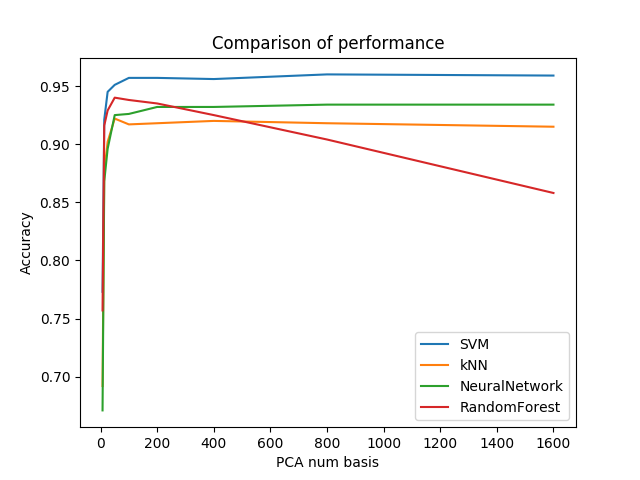
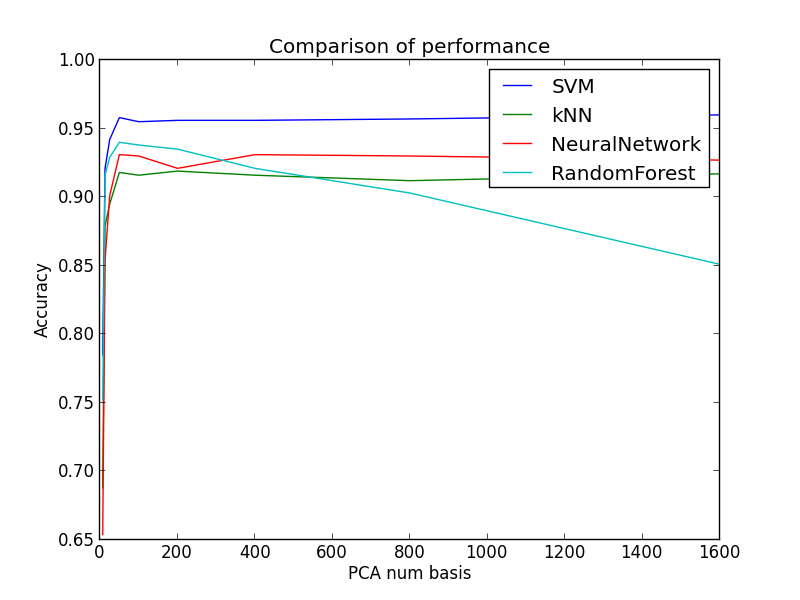
Modify README.md, re-experimented

Changed region(s): [[0.0312, 0.0625, 0.9375, 0.9688], [0.6562, 0.75, 0.6875, 0.8125]]

diff --git a/README.md b/README.md
@@ -97,7 +97,7 @@ python src/main_svm.py -i data/dataset.npz -kernel sigmoid
 
 - Parameter tuning for Neural Network
 
-    - hidden layers: 125 different hidden layers (2, 2, 2) to (32, 32, 32)125 different hidden layers (16, 16, 16) to (64, 64, 64)
+    - hidden layers: 27 different hidden layers (16, 16, 16) to (64, 64, 64)
     - activation function for the hidden layer: 
         - identity: f(x) = x
         - logistic: f(x) = 1 / (1 + exp(-x))
@@ -123,7 +123,7 @@ Best parameter sets found for each classifier
     - 0.916,n=3,weights=uniform,kNN
 - rf: 
     - 0.958,criterion=gini,n=128,minss=4,RandomForest
-- svm: linear kernel produced accuracy: 0.859 regardless of C. polynomial kernel performs slightly better with fine tuning.
+- svm: 
     - 0.961,kernel=poly,C=0.125,gamma=0.001953125,degree=1,SVM
 - nn: 
     - 0.960,hls=(32, 32, 64),alpha=0.00390625,activation=identity,solver=adam,NeuralNetwork
@@ -131,7 +131,7 @@ Best parameter sets found for each classifier
 I used 5-fold cross-validation for the experiment. Following boxplot is drawn from the above parameter sets.
 
 ```
-./src/draw_bosplot.sh
+./src/draw_boxplot.sh
 ```
 
 !["Accuracy comparison boxplot"](./plots/boxplot_original.png)
@@ -233,6 +233,10 @@ python ./src/plot_pca_sweep.py -i1 ./result/pca7.dat -i2 ./result/pca13.dat -i3 
 - Dimensionality reduction had different effect on each of the classifiers:
 - kNN uses nearest neighbors in the algorithm. Hence, PCA dimensionality reduction increased the accuracy of kNN when using fairly small number of basis vectors (50).
 - Other classifiers were complicated enough for PCA to have effect on the accuracy.
+
+```
+./src/draw_boxplot2.sh
+```
 
 Here's the final boxplot using the best choice of the number of basis vectors for PCA dimentionality reduction for kNN and others using original data.
 !["Accuracy comparison boxplot"](./plots/boxplot_final.png)
